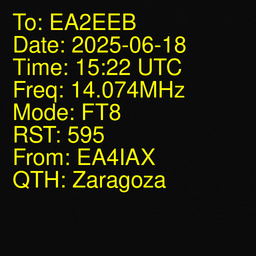
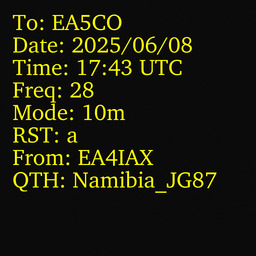
wip(transmision qsl) Avances en el flujo
no probado por un error en tesseract que no entindo

Changed region(s): [[0.0312, 0.0312, 0.8438, 0.7812], [0.0312, 0.6875, 0.0625, 0.7188]]

diff --git a/pitea/pitea/main.py b/pitea/pitea/main.py
@@ -12,6 +12,12 @@ from constantes import constantes
 from pitea.utils import crear_cache
 from colorama import init, Fore
 import traceback
+import builtins
+from pathlib import Path
+import pytesseract
+import base64
+from pitea.procesamiento_qsl.procesamiento_qsl import Procesamiento_datos_qsl
+
 
 # Inicializar colorama (para compatibilidad con Windows)
 init()
@@ -160,3 +166,55 @@ def flujo_de_trabajo_desocultar(
         print(f"{Fore.RED}Pila de llamadas:")
         traceback.print_exc()
         print(f"{Fore.RED}Programa acabado de manera abrupta{Fore.RESET}")
+
+
+def flujo_intercambio_qsl(transmision,input):
+
+    crear_cache(constantes.LISTA_DIR_CACHE_QSL)
+
+    RUTA_IMAGEN_QSL_absoluta = (Path.cwd() / Path(constantes._RUTA_QSL_RECIBIDA)).resolve()
+    if transmision :
+        #Marcamos al ruta donde guardar el resultado de la deco
+        builtins.print(f"Asegúrese de guardar la imagen como \033[1;33m{str(RUTA_IMAGEN_QSL_absoluta) % constantes.FORMATO_IMAGEN_QSL}\033[0m")
+    elif input:
+        # copia la imagen en la cache para un mayor control de ella
+        with open(input, "rb") as f:
+            datos_input= f.read()
+
+        with open(str(RUTA_IMAGEN_QSL_absoluta) % constantes.FORMATO_IMAGEN_QSL, "wb") as f:
+            f.write(datos_input)
+
+        pass
+
+    ##aqui la qsl recibida ya esta en {str(RUTA_IMAGEN_QSL_absoluta) % constantes.FORMATO_IMAGEN_QSL}
+
+    texto_extraido = pytesseract.image_to_string(str(RUTA_IMAGEN_QSL_absoluta) % constantes.FORMATO_IMAGEN_QSL, config='--psm 6 -c tessedit_char_whitelist=ABCDEFGHIJKLMNOPQRSTUVWXYZabcdefghijklmnopqrstuvwxyz0123456789+/=')
+
+    # Filtrar caracteres válidos en base64
+    texto_base64 = ''.join(filter(lambda c: c.isalnum() or c in '+/=', texto_extraido))
+
+    # Decodificar el texto base64 a bytes
+    try:
+        datos_decodificados = texto_base64.encode()
+        print("Datos decodificados exitosamente")
+    except base64.binascii.Error:
+        raise ValueError("El texto extraído no es una cadena válida de base64")
+    
+    # ns si datos_decodificados son bits o string ya
+
+    ##guardo datos en crudo
+    with open(constantes._RUTA_QSL_DATOS_CRUDOS, "wb") as f:
+            f.write(datos_decodificados)
+
+
+    datos_procesados = Procesamiento_datos_qsl.procesamiento_datos_qsl(datos_decodificados)
+    
+    #guardo datos procesados, en teoeria limpios, estructurados y correctos
+    with open(constantes._RUTA_QSL_DATOS_PROCESADOS, "wb") as f:
+            f.write(datos_procesados)
+
+    ## aqui empezaria la logica de la generacion de la tarjeta de vuelta...
+    
+
+    
+

diff --git a/pitea/script_ejecucion.py b/pitea/script_ejecucion.py
@@ -2,14 +2,14 @@
 """
 Módulo CLI de Pitea: Provee comandos de ocultación y desocultación via Click.
 Contiene las funciones `ocultar` y `desocultar` que configuran y lanzan el flujo de trabajo.
+#! necesita actualizacacion esta documentacion
 """
 import click
 from constantes import constantes
-from pitea.main import flujo_de_trabajo_ocultar, flujo_de_trabajo_desocultar
+from pitea.main import flujo_de_trabajo_ocultar, flujo_de_trabajo_desocultar, flujo_intercambio_qsl
 from pitea.mensajes import SEPARADOR
 from pitea.utils import comprobar_existencia_archivo
 import subprocess
-
 
 def validar_datos(qra, qth, fecha, hora, freq, modo, rst):
     """
@@ -376,11 +376,53 @@ def generar_tarjeta(verbose, qra, qth, fecha, hora, freq, modo, rst):
             click.echo(f"LLamando al script {constantes.SCRIPT_GENERACION_QSL}...")
         subprocess.run(comando, check=True)
         if constantes.VERBOSE:
-            click.echo(f"Tarjeta generada en al ruta:(INSERTAR RUTA)")
+            click.echo("Tarjeta generada en al ruta:(INSERTAR RUTA)")
     except subprocess.CalledProcessError as e:
         if constantes.VERBOSE:
             click.echo(f"\033[1;31m❌ Error al ejecutar el script: {e}\033[0m")
 
+
+
+
+@main.command()
+@click.option(
+    "-v",
+    "--verbose",
+    is_flag=True,
+    help="Modo verbose , muestra mensajes del flujo.",
+)
+@click.option(
+    "-t",
+    "--transmision",
+    is_flag=True,
+    help="Utilizar Qsstv para decodificar la imagen o usar una imagen ya decodificada.",
+)
+@click.option(
+    "-i",
+    "--input",
+    help="Si no esta activo el flag 't' , ruta de la imagen decodificada.",
+)
+#opciones como si usar una ruta para la foto o abrir qsstv
+def intercambio_qsl(verbose,transmision,input):
+
+    # activo el modo verbose o no
+    if verbose:
+        constantes.VERBOSE = True
+
+
+    if transmision is None and input is None:
+        click.BadOptionUsage("No se ha introducido la ruta de la imagen decodificada.")
+
+    if constantes.VERBOSE:
+        click.echo("Iniciando intercambio QSL")
+        click.echo(f"Modo transmision: {transmision}")
+        click.echo(f"Ruta de imagen decodificada: {input}")
+
+    flujo_intercambio_qsl(transmision,input)
+
+
+
+    
     
 
 

diff --git a/pitea/interfaz/comandos/GenerarTarjetaCommand.py b/pitea/interfaz/comandos/GenerarTarjetaCommand.py
@@ -1,11 +1,8 @@
 from interfaz.comandos.command import Command
 from constantes import constantes
-from interfaz.utils import comprobar_opcion
 from interfaz.MenuPrinter import MenuPrinter
-from pathlib import Path
 import builtins
 import subprocess
-import os
 
 class GenerarTarjetaCommand(Command):
     """
@@ -74,7 +71,7 @@ class GenerarTarjetaCommand(Command):
         try:
             builtins.print("⏳ Generando tarjeta QSL...")
             subprocess.run(comando, check=True)
-            builtins.print(f"✅ Tarjeta generada correctamente: (FALTA INSERTAR LA RUTA)")
+            builtins.print("✅ Tarjeta generada correctamente: (FALTA INSERTAR LA RUTA)")
             input("Presiona Enter para continuar...")
         except subprocess.CalledProcessError as e:
             builtins.print(f"\033[1;31m❌ Error al ejecutar el script: {e}\033[0m")

diff --git a/pitea/constantes.py b/pitea/constantes.py
@@ -152,8 +152,19 @@ class Constantes:
 
 
         self._RUTA_QSL = self._RUTA_CACHE_ESPECIFICA / "qsl"
-        self._RUTA_QSL_DATOS = self._RUTA_DESOCULTACION / "datos"
-        self._RUTA_QSL_IMAGEN = self._RUTA_DESOCULTACION / "imagen"
+        self._RUTA_QSL_DATOS = self._RUTA_QSL / "datos" 
+        self._RUTA_QSL_IMAGEN = self._RUTA_QSL / "imagen" 
+
+        self._RUTA_QSL_DATOS_CRUDOS = self._RUTA_QSL_DATOS / "crudos.txt"
+        self._RUTA_QSL_DATOS_PROCESADOS = self._RUTA_QSL_DATOS / "procesados.txt"
+
+        self._RUTA_QSL_RECIBIDA = self._RUTA_QSL_IMAGEN / "tarjeta_qsl.%s" 
+
+        self._LISTA_DIR_CACHE_QSL = [
+            self._RUTA_QSL_IMAGEN,
+            self._RUTA_QSL_DATOS,
+        ]
+
 
         return conf
 

diff --git a/pitea/interfaz/utils.py b/pitea/interfaz/utils.py
@@ -3,9 +3,7 @@
 Módulo utils: Funciones auxiliares para interacción con el usuario y ejecución de comandos.
 Incluye validación de rutas, selección de opciones y ejecución de flujo mediante Click.
 """
-import itertools
 import os
-import time
 from constantes import constantes
 from prompt_toolkit import prompt
 from prompt_toolkit.completion import PathCompleter

diff --git a/pitea/pitea/audio/OcultadorAudioSSTV.py b/pitea/pitea/audio/OcultadorAudioSSTV.py
@@ -1,11 +1,9 @@
 from constantes import constantes
-import subprocess
 from pitea.audio.OcultadorAudio import OcultadorAudio
 from PIL import Image
 from pathlib import Path
 from pitea.mensajes import print
 import builtins
-import os
 from pitea.utils import launch_qsstv
 
 

diff --git a/pitea/pitea/procesamiento_qsl/procesamiento_qsl.py b/pitea/pitea/procesamiento_qsl/procesamiento_qsl.py
@@ -1,0 +1,4 @@
+class Procesamiento_datos_qsl:
+    
+    def procesamiento_datos_qsl(datos_decodificados):
+        return datos_decodificados
